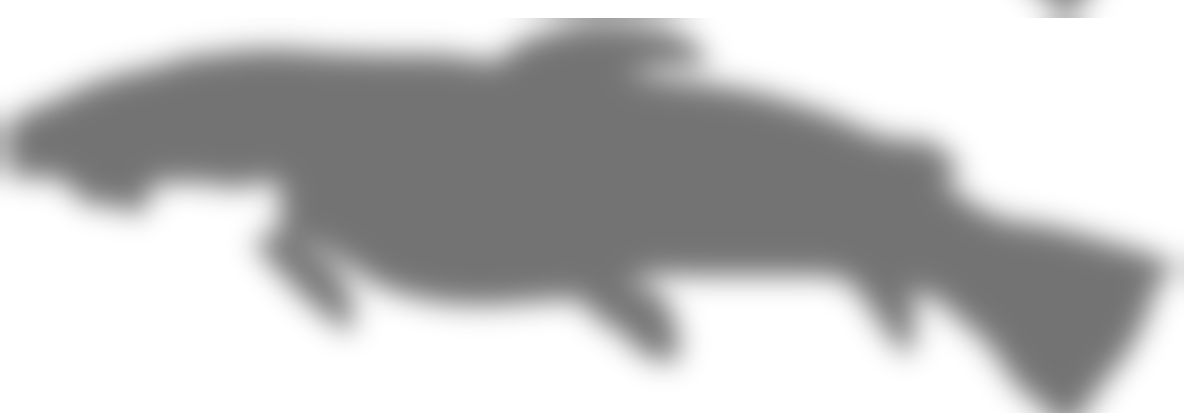
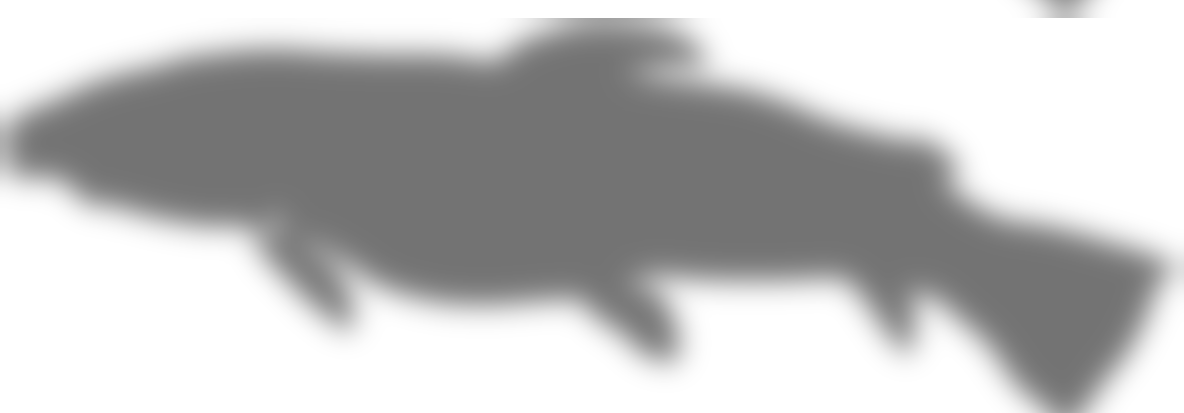
MČR 2026: workflow outputs (in progress)
Claude-Session: https://claude.ai/code/session_01UKzPfFpeHC8GokMPr6qFhY

Changed region(s): [[0.0938, 0.4068, 0.25, 0.5811]]

diff --git a/projects/mcr-2026-sponzori/scripts/assets_prep/venue/fish_real_cut.py b/projects/mcr-2026-sponzori/scripts/assets_prep/venue/fish_real_cut.py
@@ -40,11 +40,11 @@ def cr(pts, n=10, closed=True):
 BODY = [  # clockwise from the upper jaw tip (orig px); head re-traced on a 2x overlay
     (154, 1094), (162, 1083), (170, 1077), (190, 1070), (215, 1060), (240, 1050), (265, 1042), (290, 1034), (315, 1027),
     (340, 1022), (365, 1019), (390, 1016), (440, 1014), (490, 1013), (540, 1017), (590, 1022), (640, 1027), (700, 1031),
-    (760, 1036), (800, 1044), (853, 1050), (887, 1055), (930, 1066), (973, 1080), (1000, 1090), (1020, 1096),
-    (1045, 1105), (1070, 1124), (1100, 1150), (1130, 1171), (1155, 1184), (1172, 1187), (1220, 1195), (1270, 1208),
+    (760, 1036), (800, 1044), (853, 1050), (887, 1055), (930, 1068), (960, 1081), (985, 1090), (1010, 1097),
+    (1045, 1106), (1070, 1124), (1100, 1150), (1130, 1171), (1155, 1184), (1172, 1187), (1220, 1195), (1270, 1208),
     (1300, 1218), (1318, 1226), (1325, 1234), (1310, 1246), (1295, 1263), (1280, 1286), (1265, 1312), (1245, 1340),
     (1225, 1367), (1210, 1386), (1200, 1390), (1186, 1371), (1165, 1345), (1140, 1312), (1115, 1284), (1095, 1266),
-    (1075, 1260), (1058, 1258), (995, 1247), (980, 1242), (950, 1241), (900, 1241), (850, 1241), (800, 1240), (780, 1246),
+    (1075, 1260), (1058, 1258), (995, 1247), (980, 1243), (950, 1245), (900, 1246), (850, 1245), (800, 1241), (780, 1246),
     (750, 1253), (720, 1257), (680, 1260), (630, 1263), (580, 1260), (530, 1248), (500, 1233), (465, 1212), (440, 1203),
     (410, 1200), (390, 1197), (365, 1195), (340, 1191), (315, 1187), (290, 1182), (265, 1175), (240, 1167), (215, 1157),
     (190, 1147), (170, 1140), (157, 1130), (152, 1122), (152, 1108),
@@ -118,7 +118,7 @@ snap_stats = {'body_offset_px_mean_abs': round(float(np.abs(body_off).mean()), 2
 
 # --- remove fingers lying ON the fish: column-wise copy of neighbouring fish texture aligned to the body edge
 b_, g_, r_ = [img[..., i].astype(int) for i in range(3)]
-skin = ((r_ - g_ > 22) & (r_ - b_ > 28) & (r_ > 100)).astype(np.uint8)
+skin = ((r_ - g_ > 36) & (r_ - b_ > 40) & (r_ > 90)).astype(np.uint8)   # fingers R-G ≈ 45–70; cream throat/belly R-G ≤ 28
 skin = cv2.dilate(cv2.morphologyEx(skin, cv2.MORPH_CLOSE, cv2.getStructuringElement(cv2.MORPH_ELLIPSE, (7, 7))),
                   cv2.getStructuringElement(cv2.MORPH_ELLIPSE, (11, 11)))
 bodyb = body > 127
@@ -164,9 +164,9 @@ def band_copy(x0, y0, x1, y1, dx, excl, feather_v=12, feather_h=12, dc_scale=0.5
     work = (work.astype(np.float32) * (1 - w3) + src * w3).clip(0, 255).astype(np.uint8)
     return wgt > 0.02
 
-# (1) belly under the right hand ← belly 190 px to the left; (1b) finger behind the gill ← belly 70 px to the right
-fixed |= band_copy(795, 1183, 990, 1252, -190, pecb)
-fixed |= band_copy(425, 1168, 500, 1240, 70, pecb, feather_v=8, feather_h=8)
+# (1) belly under the right hand ← belly 262 px to the left; (1b) finger behind the gill ← belly 85 px to the right
+fixed |= band_copy(795, 1183, 990, 1256, -262, pecb)          # source x 533–728: plain belly, in front of the pelvic fin base
+fixed |= band_copy(400, 1165, 500, 1240, 85, pecb, feather_v=10, feather_h=14)
 
 # (1c) fingertips under the jaw/throat (x 245–425): the fingers only clip the lower rim, so the outline follows the
 #      finger tops there (smoothed) instead of inventing throat texture
@@ -225,6 +225,17 @@ h_ref, s_ref = np.median(hsv[ref, 0]), np.median(hsv[ref, 1])
 hsv[..., 0] = hsv[..., 0] * (1 - pinkf) + h_ref * pinkf
 hsv[..., 1] = hsv[..., 1] * (1 - pinkf) + s_ref * pinkf
 work2 = cv2.cvtColor(hsv.clip(0, 255).astype(np.uint8), cv2.COLOR_HSV2BGR)
+# translucent fins over the dark jacket read as black notches: lift dark fin pixels toward the fin's own median colour
+for k_ in ('pectoral', 'pelvic', 'anal', 'dorsal'):
+    fm = (fins[k_] > 127) & (m > 0)
+    if not fm.any():
+        continue
+    hv = cv2.cvtColor(work2, cv2.COLOR_BGR2HSV)[..., 2].astype(np.float32)
+    medv = np.median(hv[fm]); medc = np.median(work2[fm].reshape(-1, 3), 0).astype(np.float32)
+    lift = np.clip(1 - hv / (0.62 * medv), 0, 1) * 0.85 * fm
+    lift = cv2.GaussianBlur(lift.astype(np.float32), (0, 0), 1.2) * fm
+    detail = work2.astype(np.float32) - cv2.GaussianBlur(work2, (0, 0), 3).astype(np.float32)
+    work2 = (work2.astype(np.float32) * (1 - lift[..., None]) + (medc + detail * 0.6) * lift[..., None]).clip(0, 255).astype(np.uint8)
 rgba = np.dstack([cv2.cvtColor(work2, cv2.COLOR_BGR2RGB), (alpha * 255).astype(np.uint8)])
 ys, xs = np.nonzero(alpha > 0)
 pad = 6
@@ -266,7 +277,7 @@ meta = {
         'source_page': 'https://www.lihenlibechov.cz/cs/aktualita/novy-rybarsky-rad',
         'source_size': [W, H], 'crop_box_in_source': [int(x0), int(y0), int(x1), int(y1)],
         'processing': 'hand-traced outline snapped to the photo edge (Lab gradient, ±10 px, smoothed); fingers on the belly/back replaced by a '
-                      'column-wise copy of the fish’s own neighbouring belly/back texture (aligned to the body edge, colour-matched, 5 px feather) + Telea on thin rims; no upscale, no generative fill. The far pectoral fin (hidden behind the left hand) is left out.',
+                      'column-wise copy of the fish’s own neighbouring belly/back texture (aligned to the body edge, mild DC colour match, 10–14 px feather) + Telea on thin rims; no upscale, no generative fill. The far pectoral fin (hidden behind the left hand) is left out.',
         'edge_snap': gc_change, 'fingers_retouched_px': int(fix.sum()),
         'pose': 'side-on, straight, head left, belly down; snout at x≈%d, tail tip at x≈%d (canvas px)' % (152 - x0, 1325 - x0),
         'use': 'native 1:1 or smaller (max 1.3x per BLOCK_API); never through an AI upscaler',
